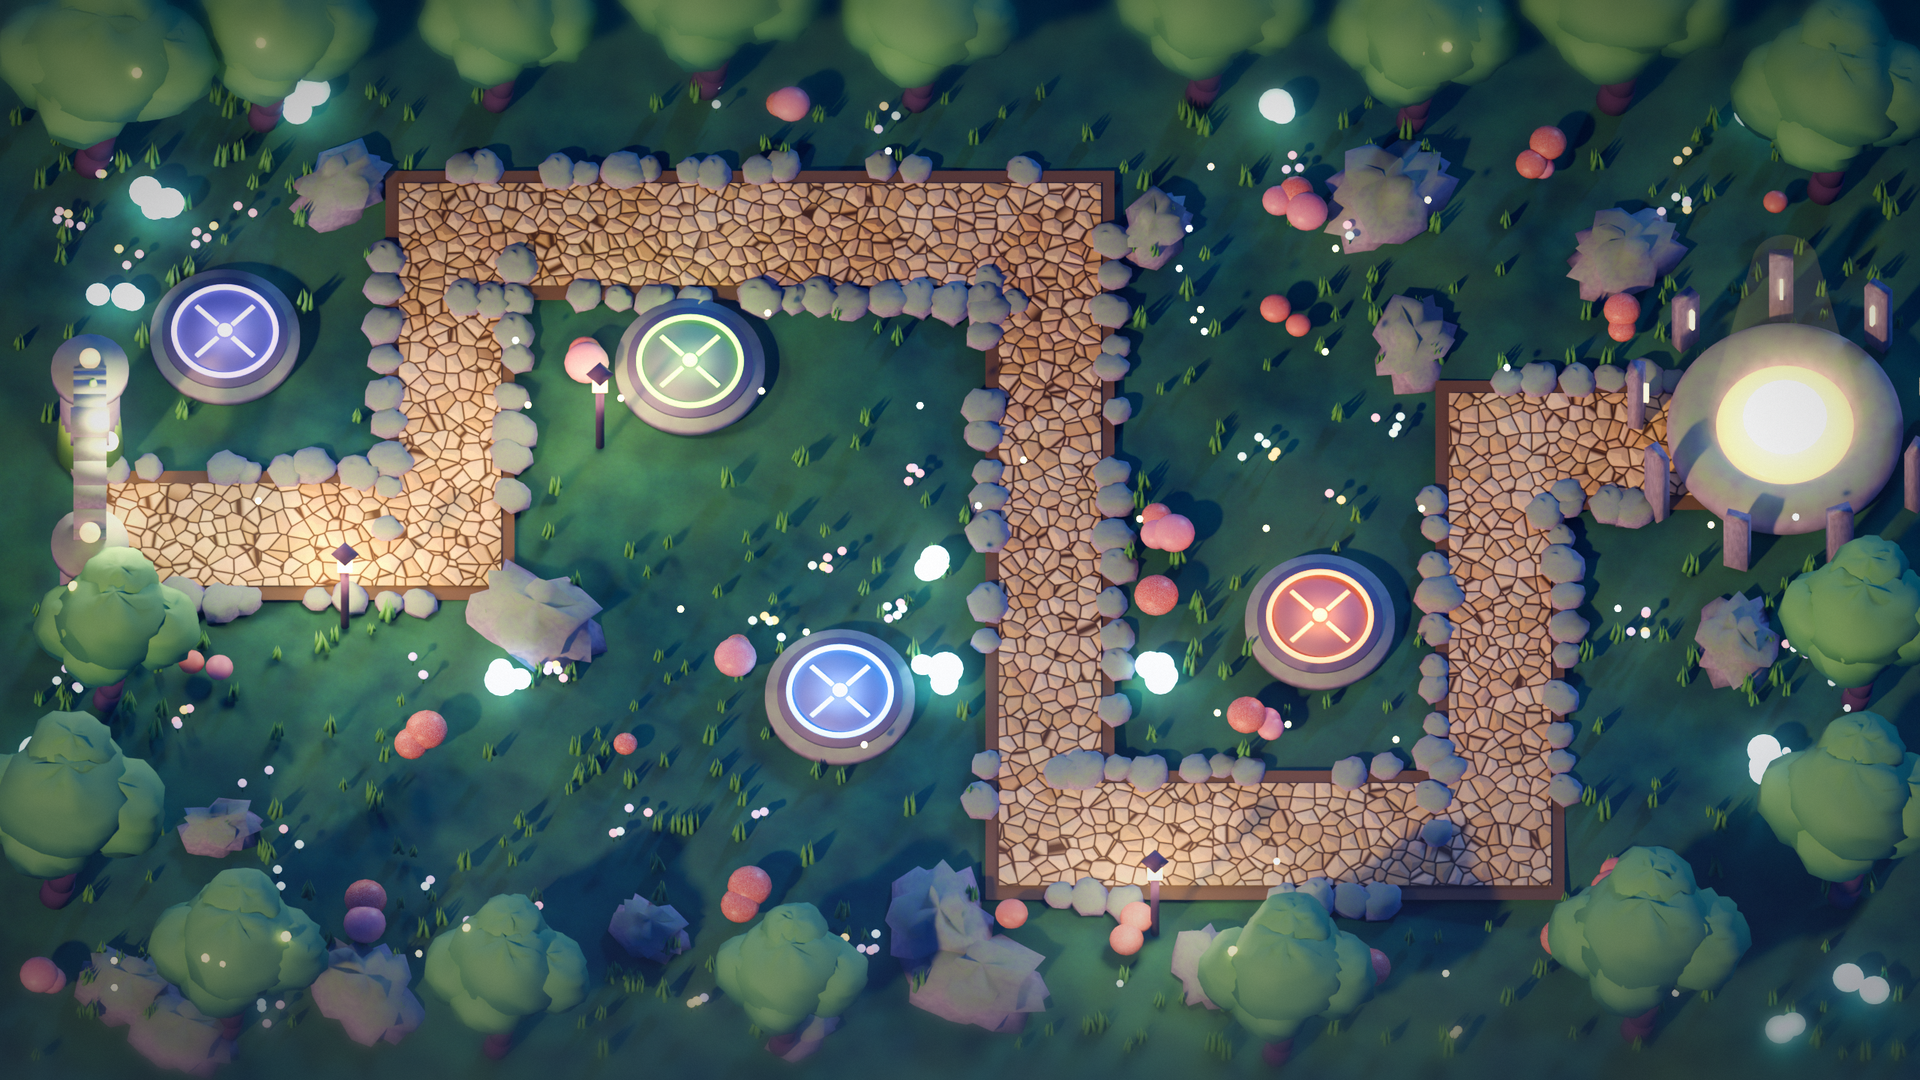
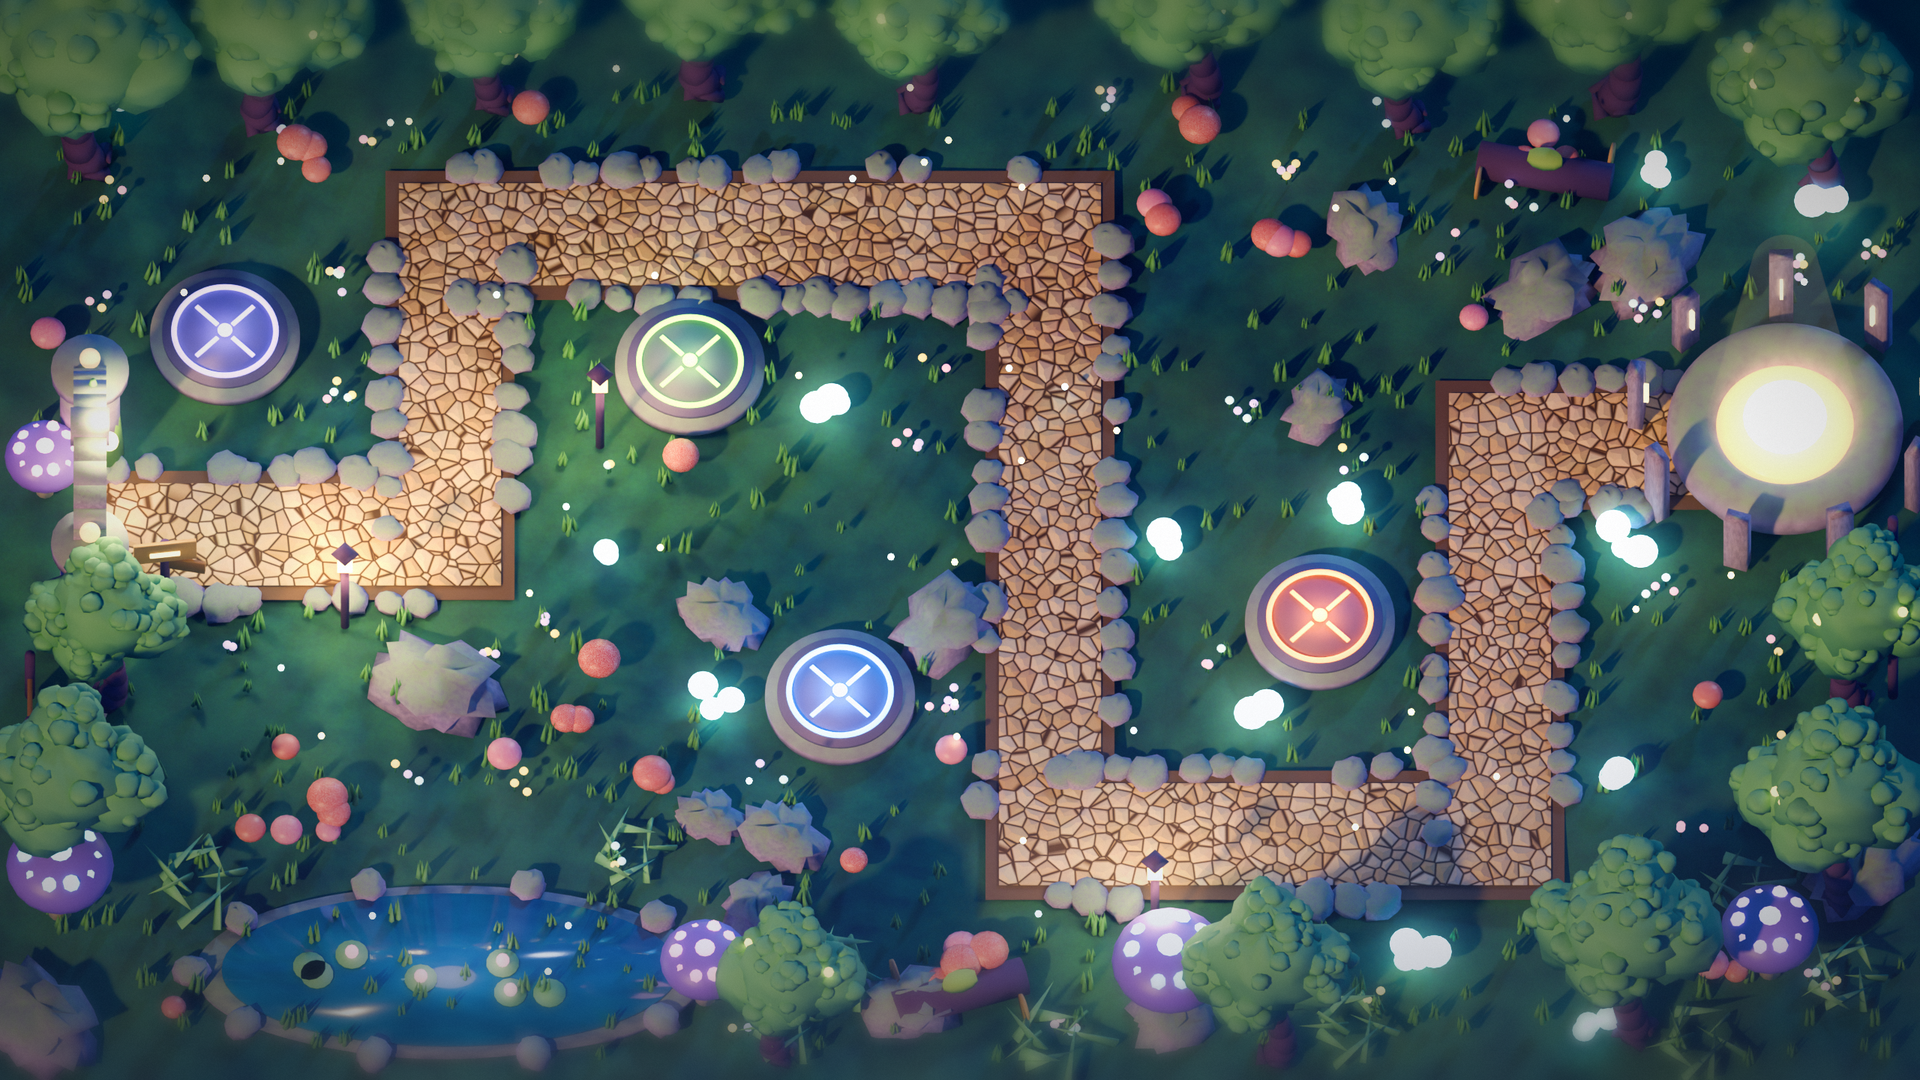
Level 1 map v2: lush trees, lily pond, giant glow mushrooms, ferns, logs, signpost, fence; corrupt-save test

diff --git a/td/tools/blender/map_mossgate.py b/td/tools/blender/map_mossgate.py
@@ -261,6 +261,8 @@ def free_spot(px, py, lane=70.0, pads=62.0):
             return False
     if math.hypot(px - 1190, py - 300) < 110 or math.hypot(px - 54, py - 360) < 90:
         return False
+    if ((px - 300) / 200.0) ** 2 + ((py - 650) / 82.0) ** 2 < 1.0:      # pond
+        return False
     return True
 
 # ------------------------------------------------------------------ terrain
@@ -338,25 +340,40 @@ cap_red = mushroom_cap_mat("#d8383a"); cap_pink = mushroom_cap_mat("#e8639a")
 stem_m = mat("stem", "#f1e4d2", 0.7)
 glowcap = mat("glowcap", "#7fe8ff", 0.4, 3.0)
 
+puff_mesh = None
 def tree(px, py, k=1.0, blue=False):
+    global puff_mesh
     base = G(px, py, 0.05)
-    h = 1.25 * k
-    # bent trunk from stacked tapered cylinders
+    h = 1.3 * k
     prev = base
-    for i in range(5):
-        t = (i + 1) / 5.0
-        nxt = base + Vector((math.sin(t * 2.2) * 0.14 * k, 0.04 * i * k, h * t))
+    for i in range(6):
+        t = (i + 1) / 6.0
+        nxt = base + Vector((math.sin(t * 2.4 + px) * 0.12 * k, 0.04 * i * k, h * t))
         mid = (prev + nxt) / 2; ln = (nxt - prev).length
         d = (nxt - prev).normalized()
         rot = Vector((0, 0, 1)).rotation_difference(d).to_euler()
-        rad = 0.16 * k * (1 - t * 0.55)
+        rad = 0.17 * k * (1 - t * 0.55)
         prim("cyl", "trunk", trunk_m, mid, r=rad, h=ln * 1.05, seg=14, rot=rot)
         prev = nxt
+    # root flare
+    for q in range(4):
+        a_ = q * 1.57 + px
+        prim("cone", "root", trunk_m, base + Vector((math.cos(a_) * 0.15 * k, math.sin(a_) * 0.15 * k, 0.05)), r=0.07 * k, r2=0.01, h=0.22 * k, seg=8, rot=(math.cos(a_) * 1.1, math.sin(a_) * 1.1, 0))
     top = prev
     cm = leaf2_m if blue else leaf_m
-    for j, (dx, dy, dz, r_) in enumerate([(0, 0, 0.35, 0.62), (-0.42, 0.05, 0.18, 0.46), (0.45, -0.02, 0.2, 0.48), (0.05, 0.3, 0.6, 0.4), (-0.15, -0.3, 0.12, 0.42)]):
-        me = shared_mesh(f"canopy{j}", lambda b, j=j: sphere_bm(b, 18, 12, 1.0, 0.1, j + 20))
-        inst("canopy", me, cm, top + Vector((dx * k, dy * k, dz * k)), (r_ * k * 1.05, r_ * k, r_ * k * 0.85), (0, 0, rnd.uniform(0, 6)))
+    if puff_mesh is None:
+        puff_mesh = shared_mesh("puff", lambda b: sphere_bm(b, 10, 7, 1.0, 0.12, 3))
+    clumps = [(0, 0, 0.35, 0.62), (-0.42, 0.05, 0.18, 0.46), (0.45, -0.02, 0.2, 0.48), (0.05, 0.3, 0.6, 0.4), (-0.15, -0.3, 0.12, 0.42)]
+    for j, (dx, dy, dz, r_) in enumerate(clumps):
+        me = shared_mesh(f"canopy{j}", lambda b, j=j: sphere_bm(b, 20, 14, 1.0, 0.1, j + 20))
+        c0 = top + Vector((dx * k, dy * k, dz * k))
+        inst("canopy", me, cm, c0, (r_ * k * 1.0, r_ * k * 0.95, r_ * k * 0.82), (0, 0, rnd.uniform(0, 6)))
+        # leaf puffs on the upper surface of each clump: lumpy painterly silhouette
+        for q in range(14):
+            th = rnd.uniform(0, 6.283); ph = rnd.uniform(0.1, 1.25)
+            off = Vector((math.cos(th) * math.cos(ph), math.sin(th) * math.cos(ph), math.sin(ph) * 0.85)) * r_ * k * 0.95
+            sz = rnd.uniform(0.07, 0.12) * k
+            inst("puff", puff_mesh, cm, c0 + off, (sz * 1.2, sz * 1.2, sz * 0.8), (0, 0, rnd.uniform(0, 6)))
     for q in range(7):   # glowing fruit
         a_ = rnd.uniform(0, 6.28)
         prim("sphere", "fruit", mat("fruit", "#ffd86a", 0.4, 4.0), top + Vector((math.cos(a_) * 0.55 * k, math.sin(a_) * 0.45 * k, rnd.uniform(0.0, 0.7) * k)), scale=(0.035,) * 3, seg=8, rings=6)
@@ -382,7 +399,7 @@ tuft_m = foliage_mat("#1f5a4a", "#5fa862", "grass")
 
 # trees: borders and corners, kept away from the lane and pads
 tree_spots = [(60, 112, 1.0), (175, 82, 0.9), (330, 70, 0.8), (470, 60, 0.95), (610, 70, 0.8), (800, 66, 0.9), (940, 84, 0.85), (1075, 70, 1.0), (1215, 130, 0.95),
-              (36, 600, 0.9), (150, 690, 0.8), (330, 702, 0.75), (520, 700, 0.7), (850, 706, 0.8), (1090, 690, 0.9), (1228, 600, 0.9), (1236, 470, 0.8), (70, 470, 0.75)]
+              (36, 590, 0.9), (520, 706, 0.7), (850, 706, 0.8), (1090, 690, 0.9), (1228, 600, 0.9), (1236, 470, 0.8), (70, 470, 0.75)]
 for i, (tx, ty, k) in enumerate(tree_spots):
     tree(tx, ty, k * 0.8, blue=(i % 5 == 2))
 
@@ -408,6 +425,100 @@ for _ in range(560):
     if dist_to_path(px, py) < 52 or any(math.hypot(px - sx, py - sy) < 50 for sx, sy, _c in STONES):
         continue
     inst("tuft", tuft_mesh, tuft_m, G(px, py, 0.05), (rnd.uniform(0.6, 1.2),) * 3, (0, 0, rnd.uniform(0, 6)))
+
+
+# ------------------------------------------------------------------ extra decor (non-buildable bands + borders)
+fern_m = foliage_mat("#1d6a52", "#7fd08a", "fern")
+def fern(px, py, k=1.0):
+    base = G(px, py, 0.06)
+    for q in range(9):
+        a_ = q * 0.7 + rnd.uniform(-0.2, 0.2)
+        ln = rnd.uniform(0.28, 0.42) * k
+        tilt = rnd.uniform(0.9, 1.25)
+        c = base + Vector((math.cos(a_) * ln * 0.45, math.sin(a_) * ln * 0.45, 0.05 + ln * 0.18))
+        prim("cone", "frond", fern_m, c, r=0.045 * k, r2=0.0, h=ln, seg=6, scale=(1.0, 0.35, 1.0), rot=(math.sin(a_) * tilt, -math.cos(a_) * tilt, a_))
+
+def giant_mushroom(px, py, k=1.0, col="#7fe8ff"):
+    base = G(px, py, 0.06)
+    gm_ = mat("gmush_" + col, col, 0.4, 2.6)
+    prim("cyl", "gstem", stem_m, base + Vector((0, 0, 0.22 * k)), r=0.07 * k, h=0.44 * k, seg=12)
+    prim("sphere", "gcap", mat("gcap_" + col, "#8a62d8", 0.45), base + Vector((0, 0, 0.5 * k)), scale=(0.3 * k, 0.3 * k, 0.17 * k), seg=20, rings=12)
+    for q in range(10):
+        a_ = q * 0.63
+        prim("sphere", "gdot", gm_, base + Vector((math.cos(a_) * 0.19 * k, math.sin(a_) * 0.19 * k, 0.58 * k + 0.02 * (q % 3))), scale=(0.05 * k,) * 3, seg=8, rings=6)
+    prim("sphere", "gtop", gm_, base + Vector((0, 0, 0.64 * k)), scale=(0.09 * k, 0.09 * k, 0.04 * k), seg=12, rings=6)
+    gl_ = bpy.data.lights.new("gml", 'POINT'); gl_.energy = 6; gl_.color = hexc(col)[:3]; gl_.shadow_soft_size = 0.2
+    lo_ = bpy.data.objects.new("gml", gl_); link(lo_); lo_.location = base + Vector((0, 0, 0.35 * k))
+
+def log(px, py, rot=0.0):
+    c = G(px, py, 0.12)
+    prim("cyl", "log", trunk_m, c, r=0.13, h=0.9, seg=16, rot=(0, math.pi / 2, rot))
+    ca = Vector((math.cos(rot) * 0.45, math.sin(rot) * 0.45 * -1, 0))
+    for sgn in (1, -1):
+        prim("cyl", "logend", mat("logend", "#c9a46a", 0.7), c + Vector((math.cos(rot) * 0.45 * sgn, -math.sin(rot) * 0.45 * sgn, 0)), r=0.115, h=0.02, seg=16, rot=(0, math.pi / 2, rot))
+    for q in range(3):
+        mushroom(px + (q - 1) * 14, py - 6, 0.9)
+    prim("cone", "logmoss", foliage_mat("#2f7d58", "#9ad66a", "moss"), c + Vector((0, 0, 0.13)), r=0.1, r2=0.08, h=0.5, seg=10, scale=(1.4, 0.7, 0.35), rot=(0, 0, rot))
+
+def sign(px, py):
+    b0 = G(px, py, 0.06)
+    prim("cyl", "signpost", trunk_m, b0 + Vector((0, 0, 0.35)), r=0.035, h=0.7, seg=10)
+    prim("cube", "signboard", mat("signboard", "#c9a46a", 0.7), b0 + Vector((0.0, -0.02, 0.62)), scale=(0.42, 0.04, 0.2), rot=(0, 0, 0.12))
+    prim("cube", "signrune", mat("signrune", "#ffe9a8", 0.4, 3.0), b0 + Vector((0.0, -0.045, 0.62)), scale=(0.2, 0.012, 0.04), rot=(0, 0, 0.12))
+    prim("cube", "signarrow", mat("signboard2", "#b98a52", 0.7), b0 + Vector((0.12, -0.02, 0.45)), scale=(0.3, 0.035, 0.11), rot=(0, 0, -0.18))
+
+def fence(x0, y0, x1, y1):
+    a_ = Vector((x0, y0)); b_ = Vector((x1, y1)); L = (b_ - a_).length; d = (b_ - a_).normalized()
+    n = max(2, int(L / 38))
+    ang = math.atan2(-(d.y), d.x)
+    for q in range(n + 1):
+        p = a_ + d * (L * q / n)
+        prim("cyl", "post", trunk_m, G(p.x, p.y, 0.4 + 0.05 * 0), r=0.035, h=0.55 + 0.05 * (q % 2), seg=8)
+    for hz in (0.28, 0.45):
+        mid = (a_ + b_) / 2
+        prim("cube", "rail", mat("rail", "#8a6a4a", 0.8), G(mid.x, mid.y, hz), scale=(L / S * 1.0, 0.035, 0.035), rot=(0, 0, ang))
+
+# pond in the bottom-left band (under the shop bar, never buildable)
+pond_c = G(300, 650, 0.02)
+prim("cyl", "pondbank", mossy_rock_mat("#6a6a90"), pond_c + Vector((0, 0, 0.0)), r=1.0, h=0.06, seg=64, scale=(1.7, 0.66, 1.0))
+water_m = bpy.data.materials.new("water"); water_m.use_nodes = True
+nt = water_m.node_tree; wb = nt.nodes["Principled BSDF"]
+wb.inputs["Base Color"].default_value = hexc("#1a4f78"); wb.inputs["Roughness"].default_value = 0.12
+wb.inputs["Metallic"].default_value = 0.0
+try:
+    wb.inputs["Specular IOR Level"].default_value = 0.9
+except Exception:
+    pass
+tcw = node(nt, "ShaderNodeTexCoord"); wv = node(nt, "ShaderNodeTexNoise"); wv.inputs["Scale"].default_value = 2.2; wv.inputs["Detail"].default_value = 4
+nt.links.new(tcw.outputs["Object"], wv.inputs["Vector"])
+wr = ramp(nt, [(0.3, "#1a5c86"), (0.7, "#2f86b0")]); nt.links.new(wv.outputs["Fac"], wr.inputs["Fac"])
+nt.links.new(wr.outputs["Color"], wb.inputs["Base Color"])
+wbump = node(nt, "ShaderNodeBump"); wbump.inputs["Strength"].default_value = 0.06
+nt.links.new(wv.outputs["Fac"], wbump.inputs["Height"]); nt.links.new(wbump.outputs["Normal"], wb.inputs["Normal"])
+prim("cyl", "water", water_m, pond_c + Vector((0, 0, 0.045)), r=0.94, h=0.03, seg=64, scale=(1.62, 0.62, 1.0))
+lily_m = foliage_mat("#2a8a5a", "#7fd08a", "lily")
+for q in range(7):
+    a_ = rnd.uniform(0, 6.28); rr = rnd.uniform(0.2, 0.9)
+    lp_ = pond_c + Vector((math.cos(a_) * rr * 1.45, math.sin(a_) * rr * 0.55, 0.07))
+    prim("cyl", "lily", lily_m, lp_, r=0.11, h=0.01, seg=14)
+    if q % 2 == 0:
+        prim("sphere", "lotus", mat("lotus", "#ff9ad8", 0.5, 2.2), lp_ + Vector((0, 0, 0.04)), scale=(0.045, 0.045, 0.05), seg=10, rings=6)
+pl2 = bpy.data.lights.new("pondlight", 'POINT'); pl2.energy = 12; pl2.color = (1.0, 0.6, 0.9); pl2.shadow_soft_size = 0.3
+lo2 = bpy.data.objects.new("pondlight", pl2); link(lo2); lo2.location = pond_c + Vector((0, 0, 0.4))
+for q in range(10):
+    a_ = q * 0.63
+    inst("pstone", stone_mesh, rock_m, pond_c + Vector((math.cos(a_) * 1.72, math.sin(a_) * 0.68, 0.05)), (0.13, 0.11, 0.08), (0, 0, a_))
+
+# bottom band (below y 600) and left/right margins: denser, richer scenery since nothing can be built there
+for (fx, fy) in [(60, 520), (130, 595), (520, 690), (560, 655), (700, 700), (900, 690), (1160, 600), (1230, 660), (1240, 520), (420, 575), (1130, 700)]:
+    fern(fx, fy, rnd.uniform(0.9, 1.3))
+for (gx_, gy_, gk, gc) in [(40, 610, 1.2, "#7fe8ff"), (470, 668, 1.0, "#ff9ad8"), (780, 676, 1.3, "#7fe8ff"), (1180, 650, 1.1, "#c8a8ff"), (1250, 420, 0.9, "#7fe8ff"), (30, 330, 0.9, "#ff9ad8")]:
+    giant_mushroom(gx_, gy_, gk, gc)
+log(640, 668, 0.3)
+log(1030, 120, -0.2)
+sign(110, 400)
+fence(20, 470, 20, 560)
+fence(1262, 380, 1262, 470)
 
 # ------------------------------------------------------------------ gate (spawn) and Well (goal)
 gstone = mossy_rock_mat("#8a809e")

diff --git a/docs/level1_perfection.md b/docs/level1_perfection.md
@@ -58,4 +58,6 @@ Goal for 7 am (13:00 UTC): Level 1 feels finished. Every pass is brainstorm -> b
 - 06:50 Level 1 goals (5 goals, +60 gold once each) shown on setup panel; result screen trimmed to 6 lines.
 - 07:10 Audio overhaul: offline-synthesized SFX/voices, layered music (battle drums fade in on waves), ambient bed, new capture/steal/goal/level-up sounds. (Not auditioned by ear: no audio device here.)
 - 07:30 Mipmapped sprite filtering for smoother fur/edges.
+- 07:50 Result screen rewrite; prefs persistence fix; touch targets; capture odds on ring; shadows; tower wind-up sync.
+- 08:00 Map v2 (leaf-puff trees, lily pond, glowing giant mushrooms, ferns, logs, signpost, fence); lane alignment re-verified; corrupt-save test.
 - (old) NEXT: rig/animation quality pass (weight smoothing, 2-bone legs, better walk/attack), then tutorial, UI, audio, mastery goals.
